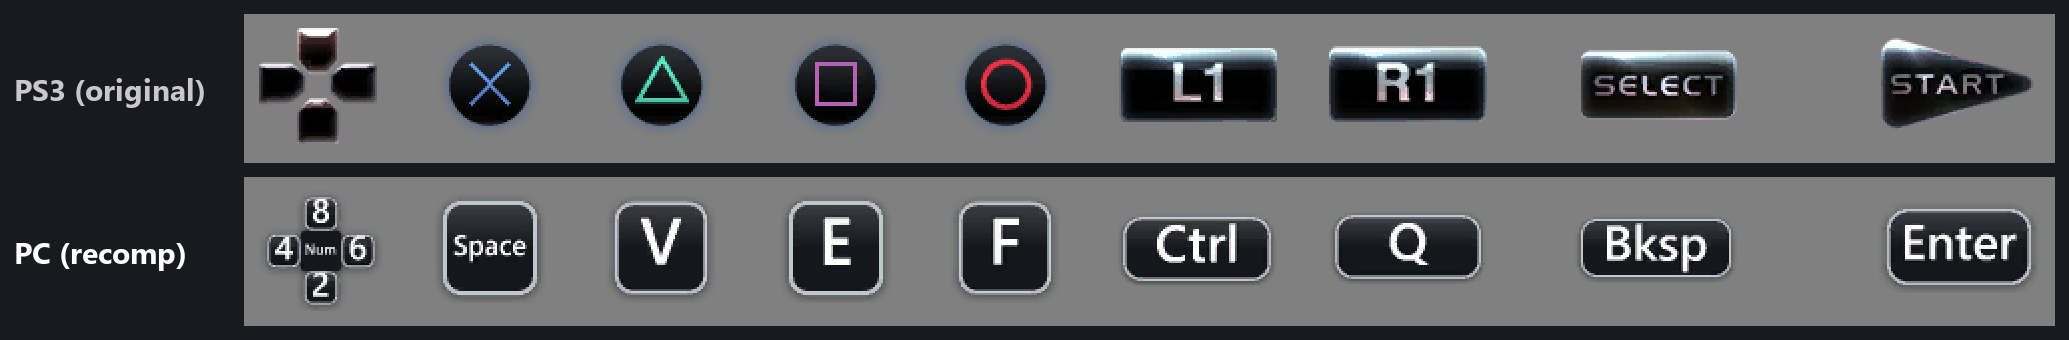
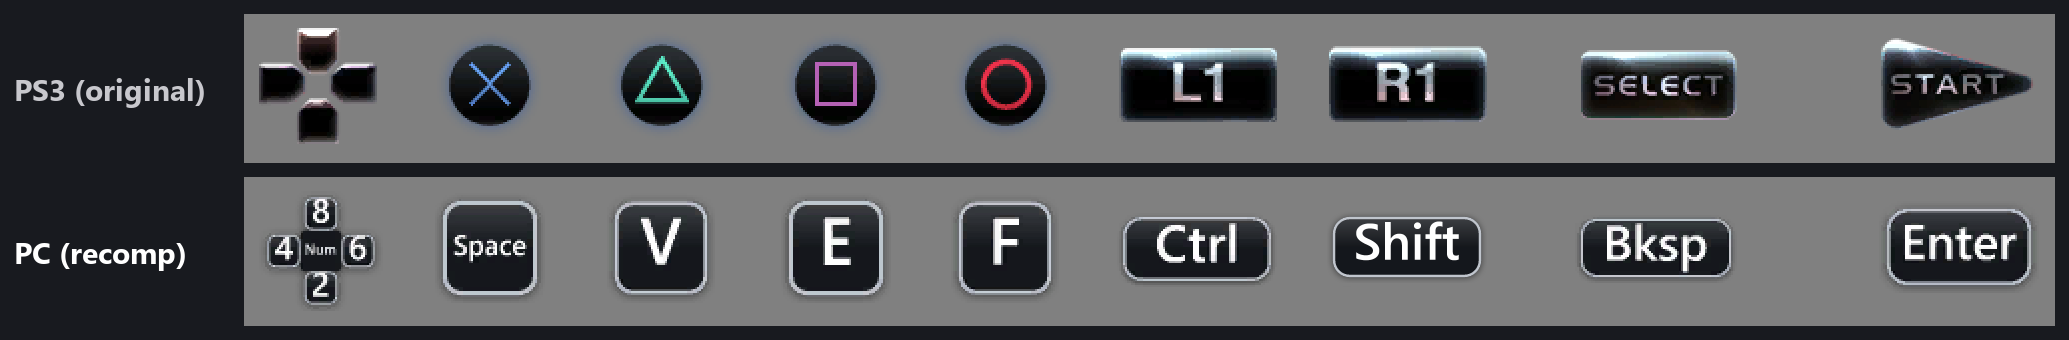
Controls: new default scheme (F/E/V faces, LCtrl/LShift, CapsLock roar, numpad D-pad, arrows dodge)
controls.ini, README table, key-prompt image (R1 = Shift), editor defaults and
the built-in defaults in the ps3recomp patch all use the same scheme. F2 is
reserved in the editor like F1.

Changed region(s): [[0.6496, 0.6176, 0.7115, 0.8235]]

diff --git a/README.md b/README.md
@@ -37,15 +37,16 @@ Button prompts in the game's menus show your PC keys instead of PS3 buttons, and
 | Action | Keyboard | Controller |
 |--------|----------|------------|
 | Move | W A S D | Left stick |
-| Dodge | Numpad 8 / 2 / 4 / 6 | Right stick |
+| Dodge | Arrow keys | Right stick |
 | Jump | Space or Z | A |
-| Eat / mark / carry | X | B |
-| Claw attack | C | X |
+| Eat / mark / carry | F | B |
+| Claw attack | E | X |
 | Pack: fight / decoy | V | Y |
-| Creep / Bite | Q / E | LB / RB |
+| Creep / Bite | Left Ctrl / Left Shift | LB / RB |
+| Roar | Caps Lock | Right stick click |
 | Pack commands | 1 | LT |
 | Pause, map / Info | Enter / Backspace | Start / Back |
-| Items, menus | Arrow keys | D-pad |
+| Items, menus | Numpad 8 / 2 / 4 / 6 | D-pad |
 
 To quit, close the window. A save in progress finishes first.
 
